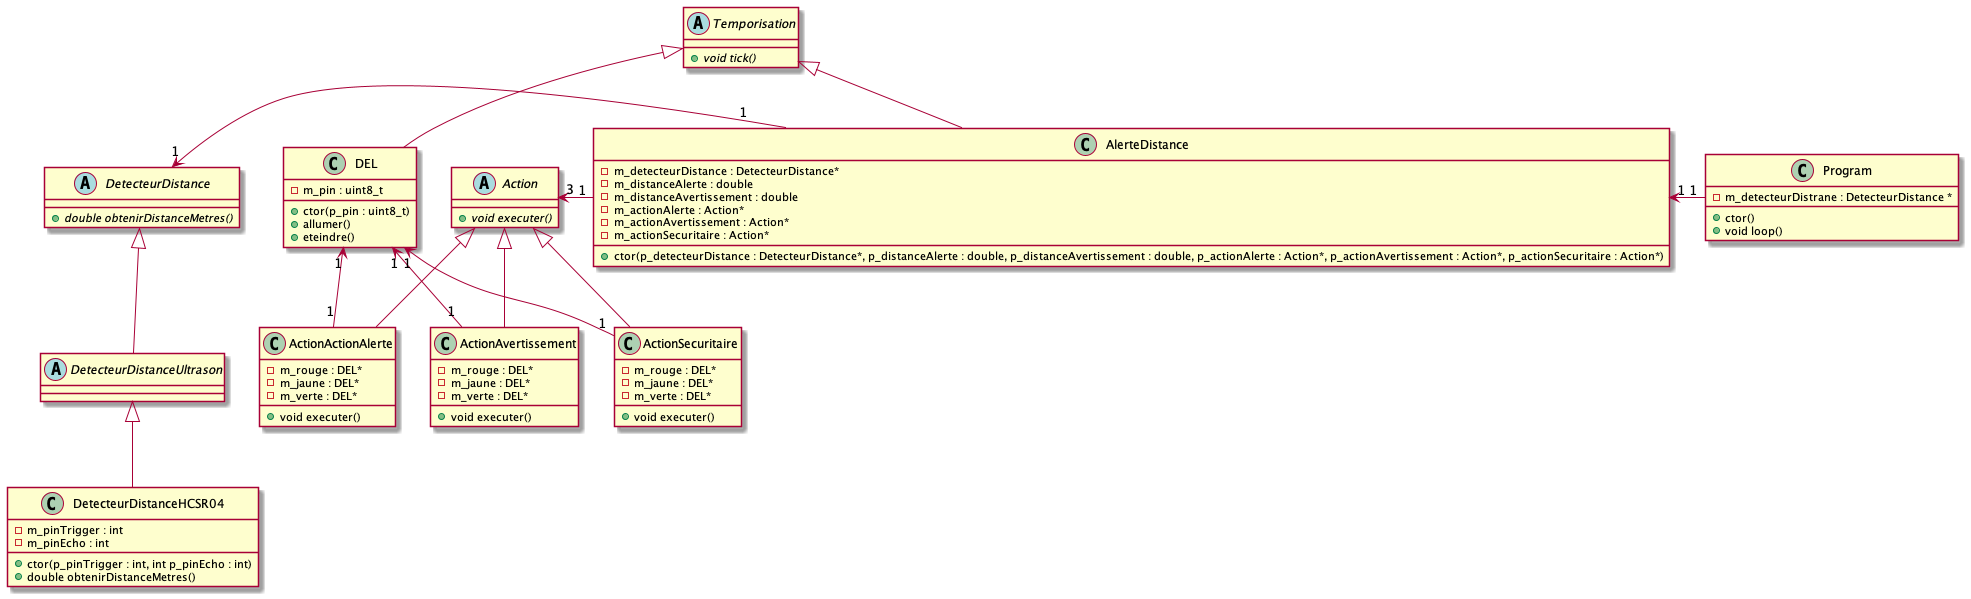
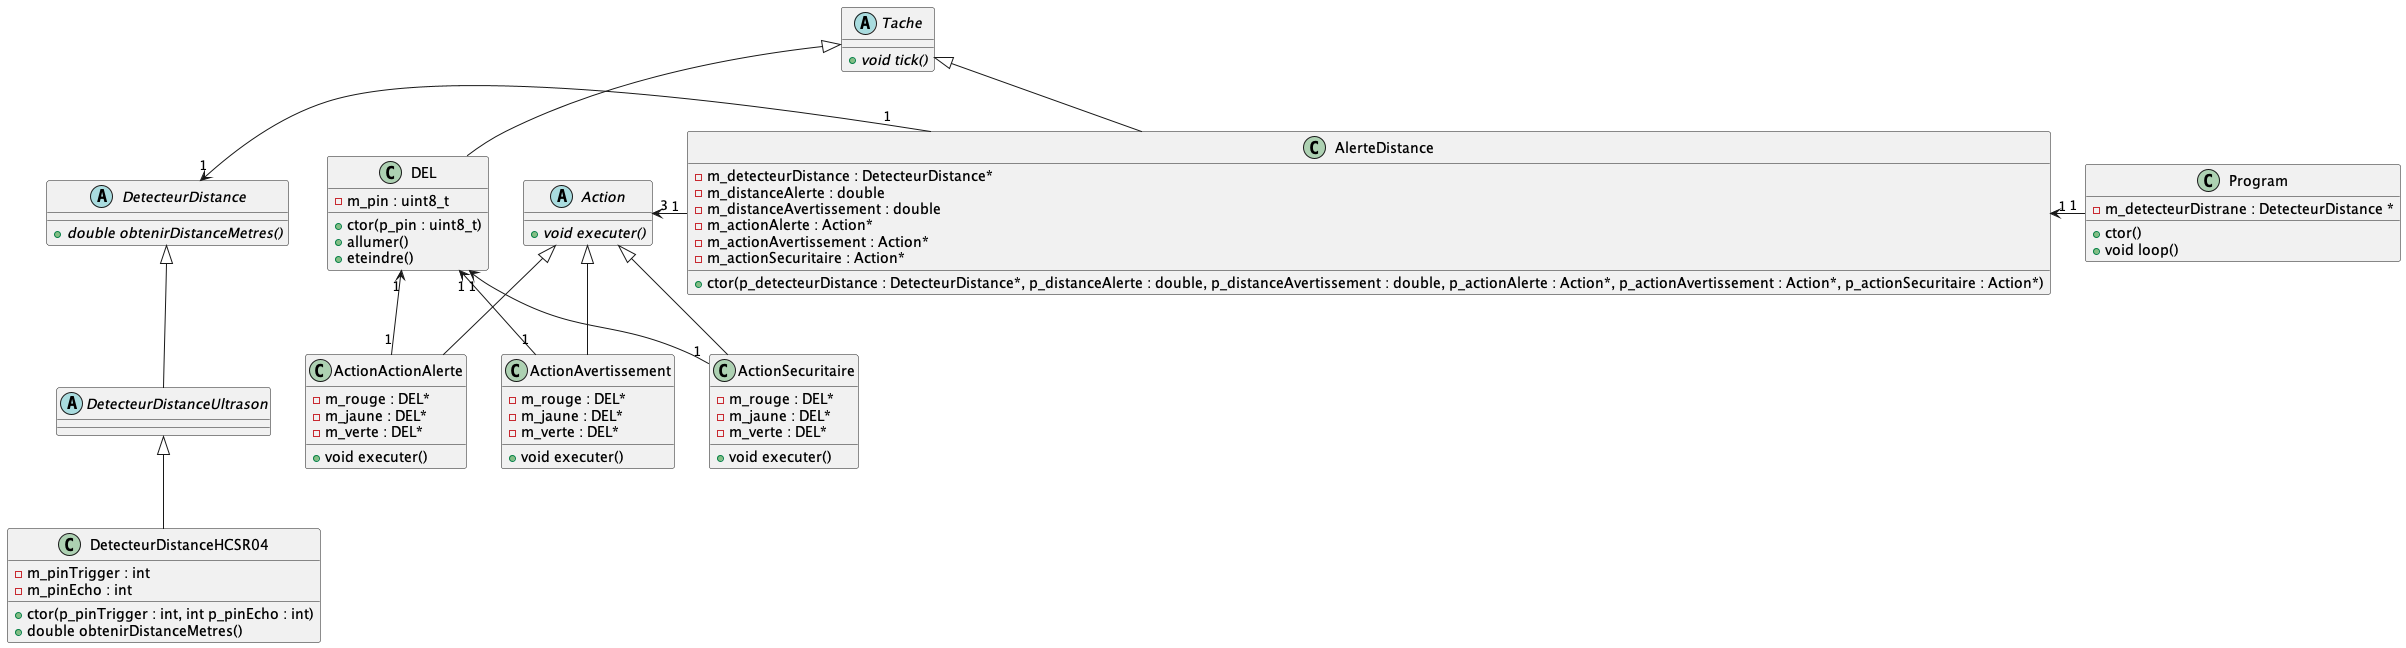
Changement terme Temporisation par Tache qui est plus approprié

diff --git a/Module05_ProgrammationEntreesAnalogiques_1_2/Module05_ProgrammationEntreesAnalogiques_1_2.md b/Module05_ProgrammationEntreesAnalogiques_1_2/Module05_ProgrammationEntreesAnalogiques_1_2.md
@@ -120,7 +120,7 @@ Soit le diagramme de classes suivant :
   - Déclarez la variable globale "program" de type pointeur de "Program"
   - Dans la fonction "setup", créez un objet de type "Program" et affectez son adresse au pointeur précédemment créé
   - Dans la fonction "loop", appelez la méthode "loop" de l'objet pointé par "program"
-- Écrivez la classe abstraite "Temporisation". Elle déclare simplement la méthode "tick" qui doit être redéfinie par ses classes filles. Cette méthode doit être exécutée à chaque fois que l'on peut, soit dans la méthode loop de la classe "Program"
+- Écrivez la classe abstraite "Tache". Elle déclare simplement la méthode "tick" qui doit être redéfinie par ses classes filles. Cette méthode doit être exécutée à chaque fois que l'on peut, soit dans la méthode loop de la classe "Program"
 - Écrivez la classe "DEL", ainsi que ses méthodes. La fonction "pinMode" est appelée dans le constructeur de cette classe.
 - Dans la classe "Program", créez trois pointeurs de "DEL", un pour chaque couleur. Ces objets sont créés dans le constructeur de "Program". Les pins sont conservées dans des constantes appartenant au même fichier.
 - Créez les classes "DetecteurDistance" et "DetecteurDistanceUltrason" (Ces classes étant abstraites, elles ne contiennent rien mise à part des déclarations)
